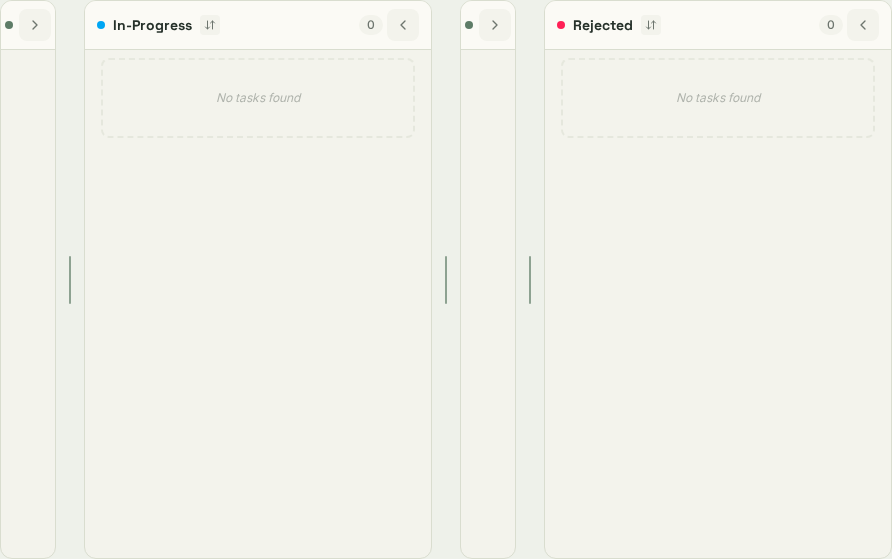
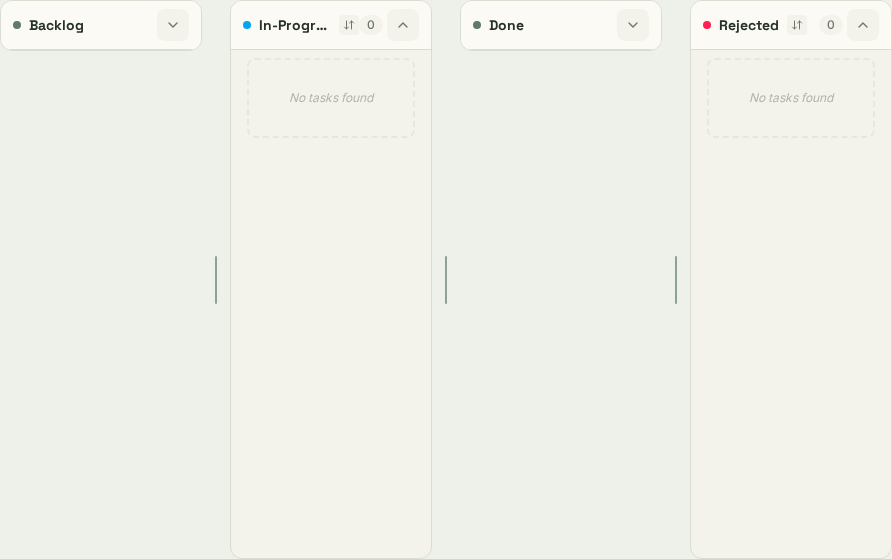
fixed lint and e2e

diff --git a/src/components/board/TaskBoard.tsx b/src/components/board/TaskBoard.tsx
@@ -4,8 +4,6 @@ import {
   ArrowDownUp,
   CheckSquare,
   ChevronDown,
-  ChevronLeft,
-  ChevronRight,
   ChevronUp,
   Clock,
   Flame,
@@ -36,7 +34,6 @@ const statusColorClass = (status) =>
 
 function TaskColumn({
   status,
-  collapseAxis,
   filteredTasks,
   settings,
   columnSorts,
@@ -74,23 +71,19 @@ function TaskColumn({
     <div
       data-testid={`board-column-${status}`}
       data-collapsed={collapsed ? 'true' : 'false'}
-      className={`flex h-full ${collapsed ? 'min-h-0' : 'min-h-[14rem]'} flex-col overflow-hidden rounded-xl border border-slate-200 bg-slate-200/50 dark:border-slate-800/60 dark:bg-slate-800/40 sm:min-h-0`}
+      className={`flex ${collapsed ? 'h-auto min-h-0 self-start' : 'h-full min-h-[14rem] sm:min-h-0'} flex-col overflow-hidden rounded-xl border border-slate-200 bg-slate-200/50 dark:border-slate-800/60 dark:bg-slate-800/40`}
       onDragOver={(e) => handleDragOver(e, status)}
       onDrop={(e) => handleDrop(e, status)}
     >
-      <div
-        className={`flex shrink-0 items-center justify-between border-b border-slate-200 bg-white/50 py-2 backdrop-blur-sm dark:border-slate-700/50 dark:bg-slate-800/80 ${collapsed && collapseAxis === 'horizontal' ? 'px-3 sm:px-1' : 'px-3'}`}
-      >
+      <div className="flex shrink-0 items-center justify-between border-b border-slate-200 bg-white/50 px-3 py-2 backdrop-blur-sm dark:border-slate-700/50 dark:bg-slate-800/80">
         <div className="flex min-w-0 items-center gap-2">
           <h2 className="flex min-w-0 items-center gap-2 text-sm font-bold text-slate-700 dark:text-slate-200">
             <div className={`h-2 w-2 shrink-0 rounded-full ${statusColorClass(status)}`}></div>
-            <span className={`truncate ${collapsed && collapseAxis === 'horizontal' ? 'sm:hidden' : ''}`}>
-              {statusLabels[status]}
-            </span>
+            <span className="truncate">{statusLabels[status]}</span>
           </h2>
           <button
             onClick={() => cycleSort(status)}
-            className={`rounded p-1 text-slate-400 transition-colors hover:bg-slate-200 dark:hover:bg-slate-700 ${collapsed && collapseAxis === 'horizontal' ? 'sm:hidden' : ''}`}
+            className={`rounded p-1 text-slate-400 transition-colors hover:bg-slate-200 dark:hover:bg-slate-700 ${collapsed ? 'hidden' : ''}`}
             title={`Sort: ${sortType}`}
           >
             {sortType === 'urgency' && <Flame size={12} className="text-orange-500" />}
@@ -100,7 +93,7 @@ function TaskColumn({
         </div>
         <div className="flex items-center gap-1">
           <span
-            className={`rounded-full bg-slate-200 px-2 py-0.5 text-xs font-medium text-slate-600 dark:bg-slate-700 dark:text-slate-300 ${collapsed && collapseAxis === 'horizontal' ? 'sm:hidden' : ''}`}
+            className={`rounded-full bg-slate-200 px-2 py-0.5 text-xs font-medium text-slate-600 dark:bg-slate-700 dark:text-slate-300 ${collapsed ? 'hidden' : ''}`}
           >
             {filtered.length}
           </span>
@@ -112,17 +105,7 @@ function TaskColumn({
             onClick={() => onToggleLane(status)}
             className={`flex h-8 w-8 shrink-0 items-center justify-center rounded-lg text-slate-500 transition-colors hover:bg-slate-200 focus-visible:outline-none focus-visible:ring-2 focus-visible:ring-indigo-500 dark:hover:bg-slate-700 ${collapsed ? 'bg-slate-200/70 dark:bg-slate-700/70' : ''}`}
           >
-            {collapseAxis === 'horizontal' ? (
-              collapsed ? (
-                <ChevronRight size={16} />
-              ) : (
-                <ChevronLeft size={16} />
-              )
-            ) : collapsed ? (
-              <ChevronDown size={16} />
-            ) : (
-              <ChevronUp size={16} />
-            )}
+            {collapsed ? <ChevronDown size={16} /> : <ChevronUp size={16} />}
           </button>
         </div>
       </div>
@@ -336,8 +319,7 @@ const columnWidth = (settings, status) => Number(settings.columnWidths?.[widthKe
 const stackHeight = (settings, status) => Number(settings.compactHeights?.[widthKey(status)]) || 50;
 const collapsedLane = (settings, status) => settings.collapsedBoardLanes?.includes(status) || false;
 const collapsedTrack = 'var(--collapsed-lane-size, 3.5rem)';
-const columnTrack = (settings, status) =>
-  collapsedLane(settings, status) ? collapsedTrack : String(columnWidth(settings, status)) + 'fr';
+const columnTrack = (settings, status) => String(columnWidth(settings, status)) + 'fr';
 const stackTrack = (settings, status) =>
   collapsedLane(settings, status) ? collapsedTrack : String(stackHeight(settings, status)) + 'fr';
 const gridTemplate = (tracks, resizeVisible) =>
@@ -671,9 +653,7 @@ export function KanbanBoard({
       );
     }
   };
-  const column = (status, collapseAxis = 'vertical') => (
-    <TaskColumn key={status} status={status} collapseAxis={collapseAxis} {...columnProps} />
-  );
+  const column = (status) => <TaskColumn key={status} status={status} {...columnProps} />;
   const verticalHandle = (left, right) =>
     resizeVisible ? (
       <ResizeHandle
@@ -712,7 +692,7 @@ export function KanbanBoard({
           })}
         >
           {order.full.flatMap((status, index) => [
-            column(status, 'horizontal'),
+            column(status),
             index < order.full.length - 1 ? verticalHandle(status, order.full[index + 1]) : null
           ])}
         </div>
@@ -734,9 +714,9 @@ export function KanbanBoard({
             )
           })}
         >
-          {column(order.threeColumn[0], 'horizontal')}
+          {column(order.threeColumn[0])}
           {verticalHandle(order.threeColumn[0], order.threeColumn[1])}
-          {column(order.threeColumn[1], 'horizontal')}
+          {column(order.threeColumn[1])}
           {resizeVisible && (
             <ResizeHandle
               id={

diff --git a/src/hooks/useBoardController.test.tsx b/src/hooks/useBoardController.test.tsx
@@ -73,6 +73,42 @@ describe('useBoardController', () => {
     expect(tasks.map((task) => task.id)).toEqual(['dragged', 'target']);
   });
 
+  it('places same-column drops above or below the hovered task only for that lane', () => {
+    const setTasks = vi.fn();
+    const { result } = renderHook(() => useBoardController(setTasks));
+    act(() => {
+      result.current.setDraggedTaskId('dragged');
+      result.current.setDragOverInfo({ status: 'backlog', id: 'target', position: 'bottom' });
+    });
+
+    act(() =>
+      result.current.handleDrop({ preventDefault: vi.fn(), target: { style: { opacity: '0.5' } } }, 'backlog')
+    );
+    const dropBelow = setTasks.mock.lastCall?.[0];
+    expect(
+      dropBelow([
+        normalizeTask({ id: 'dragged', title: 'Dragged' }),
+        normalizeTask({ id: 'target', title: 'Target' }),
+        normalizeTask({ id: 'third', title: 'Third' })
+      ]).map((task) => task.id)
+    ).toEqual(['target', 'dragged', 'third']);
+
+    act(() => {
+      result.current.setDraggedTaskId('dragged');
+      result.current.setDragOverInfo({ status: 'done', id: 'target', position: 'top' });
+    });
+    act(() =>
+      result.current.handleDrop({ preventDefault: vi.fn(), target: { style: { opacity: '0.5' } } }, 'backlog')
+    );
+    const staleTargetDrop = setTasks.mock.lastCall?.[0];
+    expect(
+      staleTargetDrop([
+        normalizeTask({ id: 'target', title: 'Target' }),
+        normalizeTask({ id: 'dragged', title: 'Dragged' })
+      ]).map((task) => task.id)
+    ).toEqual(['target', 'dragged']);
+  });
+
   it('moves and reorders tasks without a pointer drag', () => {
     const setTasks = vi.fn();
     const { result } = renderHook(() => useBoardController(setTasks));

diff --git a/src/components/app/AppHeader.tsx b/src/components/app/AppHeader.tsx
@@ -120,12 +120,23 @@ export function AppHeader() {
         >
           <Menu size={20} />
         </button>
-        <div className="rounded-lg bg-indigo-600 p-1.5 text-white shadow-sm">
-          <Activity size={18} />
-        </div>
-        <h1 className="hidden text-lg font-bold leading-none tracking-tight text-slate-800 dark:text-white sm:block md:text-xl">
-          TheMonastery
-        </h1>
+        <button
+          type="button"
+          aria-label="Go to board"
+          onClick={() => {
+            setMonkMode(false);
+            setView('board');
+            setSidebarOpen(false);
+          }}
+          className="flex items-center gap-3 rounded-lg text-left focus-visible:outline-none focus-visible:ring-2 focus-visible:ring-indigo-500"
+        >
+          <span className="rounded-lg bg-indigo-600 p-1.5 text-white shadow-sm">
+            <Activity size={18} />
+          </span>
+          <h1 className="hidden text-lg font-bold leading-none tracking-tight text-slate-800 dark:text-white sm:block md:text-xl">
+            TheMonastery
+          </h1>
+        </button>
         <div
           data-testid="app-version-chip"
           title={`Version ${visibleVersion(frontendVersion)}`}

diff --git a/src/App.test.tsx b/src/App.test.tsx
@@ -77,6 +77,19 @@ it('renders analytics with a chart component', async () => {
   expect(await screen.findByTestId('analytics-status-chart', {}, { timeout: 5000 })).toBeInTheDocument();
 });
 
+it('returns to the board when the logo is clicked', async () => {
+  const user = userEvent.setup();
+  seedTasks([makeTask({ id: 'done-task', title: 'Done task', status: 'done' })]);
+  render(<App />);
+
+  await user.click(screen.getByTestId('view-switch-dashboard'));
+  expect(await screen.findByTestId('analytics-status-chart', {}, { timeout: 5000 })).toBeInTheDocument();
+
+  await user.click(screen.getByRole('button', { name: /go to board/i }));
+  expect(screen.getByTestId('kanban-board')).toBeInTheDocument();
+  expect(screen.getByRole('heading', { name: 'Backlog' })).toBeInTheDocument();
+});
+
 it('shows virtualized mobile task list', async () => {
   const user = userEvent.setup();
   seedTasks([makeTask({ id: 'one', title: 'One' }), makeTask({ id: 'two', title: 'Two', status: 'done' })]);
@@ -166,13 +179,18 @@ it('opens keyboard shortcut help with question mark', async () => {
   expect(within(dialog).getByText(/ctrl\+k/i)).toBeInTheDocument();
 });
 
-it('keeps the command palette backdrop fully transparent', async () => {
+it('uses a modal command palette backdrop and closes cleanly with Escape', async () => {
   const user = userEvent.setup();
   render(<App />);
 
   await user.keyboard('{Control>}k{/Control}');
+  expect(screen.getByTestId('command-palette-overlay')).toHaveClass('modal-overlay');
 
-  expect(screen.getByTestId('command-palette-overlay')).toHaveClass('command-palette-overlay');
+  await user.keyboard('{Escape}');
+  await waitFor(() =>
+    expect(screen.queryByRole('dialog', { name: /command palette/i })).not.toBeInTheDocument()
+  );
+  expect(screen.queryByRole('dialog', { name: /keyboard shortcuts/i })).not.toBeInTheDocument();
 });
 
 it('shows weekly role balance insight', async () => {

diff --git a/vite.config.ts b/vite.config.ts
@@ -1,13 +1,28 @@
+import { execSync } from 'node:child_process';
 import { defineConfig } from 'vitest/config';
 import react from '@vitejs/plugin-react';
 import { VitePWA } from 'vite-plugin-pwa';
 import packageJson from './package.json';
 
 const apiTarget = process.env.THE_MONASTERY_API_URL || 'http://127.0.0.1:3000';
+const readGitValue = (command: string, fallback: string) => {
+  try {
+    return execSync(command, { encoding: 'utf8' }).trim() || fallback;
+  } catch {
+    return fallback;
+  }
+};
+const buildRef =
+  process.env.THE_MONASTERY_BUILD_REF ||
+  process.env.GITHUB_SHA ||
+  readGitValue('git rev-parse HEAD', 'local');
+const buildDate = process.env.THE_MONASTERY_BUILD_DATE || process.env.BUILD_DATE || new Date().toISOString();
 
 export default defineConfig({
   define: {
-    __APP_VERSION__: JSON.stringify(packageJson.version)
+    __APP_VERSION__: JSON.stringify(packageJson.version),
+    __APP_BUILD_REF__: JSON.stringify(buildRef),
+    __APP_BUILD_DATE__: JSON.stringify(buildDate)
   },
   plugins: [
     react(),

diff --git a/src/components/settings/SettingsModal.tsx b/src/components/settings/SettingsModal.tsx
@@ -39,6 +39,10 @@ import { useSettingsContext } from '../../contexts/SettingsContext';
 import { useTaskContext } from '../../contexts/TaskContext';
 import { useProfileContext } from '../../contexts/ProfileContext';
 
+const appVersion = typeof __APP_VERSION__ === 'string' ? __APP_VERSION__ : 'dev';
+const appBuildRef = typeof __APP_BUILD_REF__ === 'string' ? __APP_BUILD_REF__ : 'local';
+const appBuildDate = typeof __APP_BUILD_DATE__ === 'string' ? __APP_BUILD_DATE__ : 'unknown';
+
 const sectionIds = ['appearance', 'time', 'board', 'tags', 'roles', 'sidebar', 'profiles', 'data'];
 
 export function SettingsModal({
@@ -1188,6 +1192,17 @@ export function SettingsModal({
                   />
                 </SettingSection>
               )}
+              <div
+                data-testid="settings-build-metadata"
+                className="mt-4 border-t border-slate-200 pt-3 text-[11px] text-slate-400 dark:border-slate-800"
+              >
+                <div className="mb-1 font-semibold uppercase tracking-wider">Build</div>
+                <div className="grid gap-1 font-mono">
+                  <div>Version: {appVersion}</div>
+                  <div>Commit: {appBuildRef}</div>
+                  <div>Built: {appBuildDate}</div>
+                </div>
+              </div>
             </div>
           </motion.div>
         </Dialog.Content>

diff --git a/src/components/CommandPalette.tsx b/src/components/CommandPalette.tsx
@@ -34,6 +34,8 @@ export function CommandPalette({
     if (!open) return;
     const down = (e: KeyboardEvent) => {
       if (e.key === 'Escape') {
+        e.preventDefault();
+        e.stopPropagation();
         onOpenChange(false);
       }
     };
@@ -49,7 +51,13 @@ export function CommandPalette({
     <ThemedSurface
       data-testid="command-palette-overlay"
       variant="overlay"
-      className="command-palette-overlay fixed inset-0 z-[100] flex items-start justify-center p-4 pt-24"
+      className="fixed inset-0 z-[100] flex items-start justify-center p-4 pt-24"
+      onKeyDownCapture={(event) => {
+        if (event.key !== 'Escape') return;
+        event.preventDefault();
+        event.stopPropagation();
+        close();
+      }}
       onMouseDown={(event) => {
         if (event.target === event.currentTarget) close();
       }}

diff --git a/src/components/settings/SettingsModal.test.tsx b/src/components/settings/SettingsModal.test.tsx
@@ -299,4 +299,13 @@ describe('SettingsModal', () => {
       collapsedBoardLanes: ['done']
     });
   });
+
+  it('shows exact build metadata at the end of settings', () => {
+    renderSettings({ initialSection: 'data' });
+
+    const metadata = screen.getByTestId('settings-build-metadata');
+    expect(metadata).toHaveTextContent('Version: 1.0.0');
+    expect(metadata).toHaveTextContent(/Commit: /);
+    expect(metadata).toHaveTextContent(/Built: /);
+  });
 });

diff --git a/src/components/board/TaskBoard.test.tsx b/src/components/board/TaskBoard.test.tsx
@@ -155,12 +155,17 @@ describe('KanbanBoard layout controls', () => {
       <KanbanBoard {...baseProps({ ...configuredSettings, collapsedBoardLanes: ['backlog'] })} />
     );
 
+    const backlogColumn = screen.getByTestId('board-column-backlog');
+    expect(within(backlogColumn).getByText('Backlog')).toHaveClass('truncate');
+    expect(backlogColumn).toHaveClass('h-auto');
+    expect(within(backlogColumn).queryByText('Backlog item')).not.toBeInTheDocument();
+
     expect(
       (screen.getByTestId('kanban-board').firstElementChild as HTMLElement).style.getPropertyValue(
         '--kanban-grid-template'
       )
     ).toBe(
-      'var(--collapsed-lane-size, 3.5rem) var(--resize-handle-thickness, 4px) 25fr var(--resize-handle-thickness, 4px) 25fr var(--resize-handle-thickness, 4px) 25fr'
+      '37fr var(--resize-handle-thickness, 4px) 25fr var(--resize-handle-thickness, 4px) 25fr var(--resize-handle-thickness, 4px) 25fr'
     );
 
     rerender(<KanbanBoard {...baseProps({ ...configuredSettings, collapsedBoardLanes: [] })} />);

diff --git a/src/hooks/useBoardController.ts b/src/hooks/useBoardController.ts
@@ -61,11 +61,12 @@ export function useBoardController(setTasks) {
       const draggedTask = movedTasks.find((task) => task.id === draggedTaskId);
       if (!draggedTask) return previous;
       const next = movedTasks.filter((task) => task.id !== draggedTaskId);
-      if (!dragOverInfo?.id) next.push(draggedTask);
+      const targetDrop = dragOverInfo?.status === status ? dragOverInfo : null;
+      if (!targetDrop?.id) next.push(draggedTask);
       else {
-        const targetIndex = next.findIndex((task) => task.id === dragOverInfo.id);
+        const targetIndex = next.findIndex((task) => task.id === targetDrop.id);
         const insertIndex =
-          targetIndex < 0 ? next.length : targetIndex + (dragOverInfo.position === 'bottom' ? 1 : 0);
+          targetIndex < 0 ? next.length : targetIndex + (targetDrop.position === 'bottom' ? 1 : 0);
         next.splice(insertIndex, 0, draggedTask);
       }
       return next;

diff --git a/src/index.css b/src/index.css
@@ -710,10 +710,3 @@ h6,
   backdrop-filter: blur(10px) saturate(1.15);
   box-shadow: 0 10px 32px rgb(15 23 42 / 0.14) !important;
 }
-
-[data-visual-theme] .command-palette-overlay,
-.command-palette-overlay {
-  background: transparent !important;
-  -webkit-backdrop-filter: none !important;
-  backdrop-filter: none !important;
-}

diff --git a/src/components/CommandPalette.test.tsx b/src/components/CommandPalette.test.tsx
@@ -10,10 +10,12 @@ const renderPalette = (groups: CommandPaletteGroup[]) => {
 };
 
 describe('CommandPalette', () => {
-  it('uses a fully transparent overlay so workspace context stays visible', () => {
+  it('uses the shared modal overlay for readable focus', () => {
     renderPalette([]);
 
-    expect(screen.getByTestId('command-palette-overlay')).toHaveClass('command-palette-overlay');
+    const overlay = screen.getByTestId('command-palette-overlay');
+    expect(overlay).toHaveClass('modal-overlay');
+    expect(overlay).not.toHaveClass('command-palette-overlay');
   });
 
   it('renders the supplied command groups and runs actions on click', async () => {